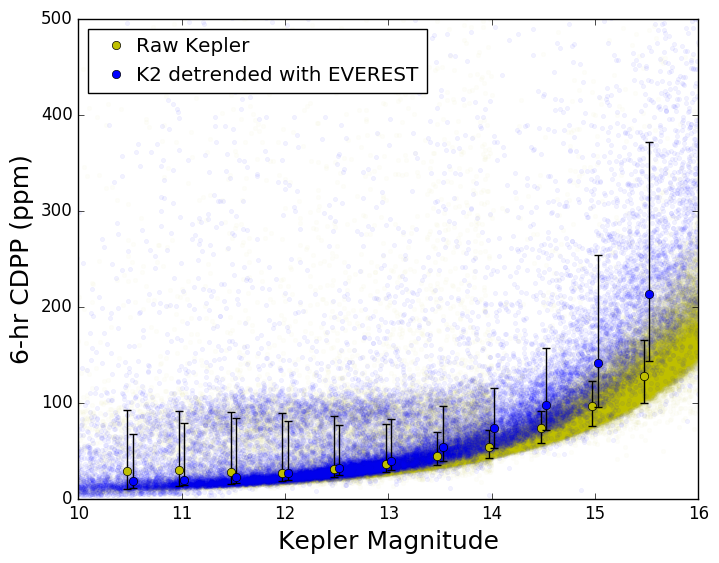
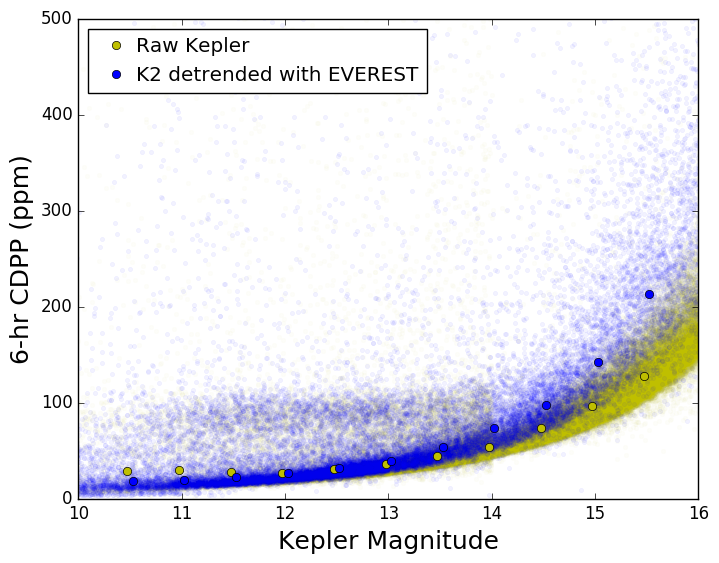
updates

diff --git a/paper/scripts/precision.py b/paper/scripts/precision.py
@@ -130,7 +130,7 @@ if __name__ == '__main__':
   
   # The campaigns we'll use for the synthesis plots
   campaigns = [0,1,2,3,4,5]
-  figures = [1,2,3,4,5,6]
+  figures = [1] #[1,2,3,4,5,6]
 
   # Get the raw **Kepler** rms
   kep_star, kep_kepmag, _, kep_raw = np.loadtxt(os.path.join('CDPP', 'kepler.tsv'), unpack = True)
@@ -211,11 +211,13 @@ if __name__ == '__main__':
         # Everest
         i = np.where((x >= bin - 0.5) & (x < bin + 0.5))[0]
         b_k2[b] = np.nanmedian(y[i])
-        b_k2_sig_l[b] = b_k2[b] - sorted(y[i])[int(len(y[i]) * 0.1585)]
-        b_k2_sig_u[b] = sorted(y[i])[int(len(y[i]) * 0.8415)] - b_k2[b]
-
-      ax.errorbar(bins - 0.025, b_kep, [b_kep_sig_l, b_kep_sig_u], color = 'y', fmt = 'o', lw = 1, ecolor = 'k', capthick = 1, zorder = 99)
-      ax.errorbar(bins + 0.025, b_k2, [b_k2_sig_l, b_k2_sig_u], color = 'b', fmt = 'o', lw = 1, ecolor = 'k', capthick = 1, zorder = 99)
+        b_k2_sig_l[b] = sorted(y[i])[int(len(y[i]) * 0.1585)]
+        b_k2_sig_u[b] = sorted(y[i])[int(len(y[i]) * 0.8415)]
+      
+      # The error bars don't make much physical sense, since the distributions
+      # are far from gaussian. I'm just going to indicate the median on the plot
+      ax.plot(bins - 0.025, b_kep, 'yo', zorder = 99)
+      ax.plot(bins + 0.025, b_k2, 'bo', zorder = 99)
 
   def fig_precision(fig, ax, campaigns, labels = True):
     '''

diff --git a/paper/tex/k2.tex b/paper/tex/k2.tex
@@ -708,7 +708,7 @@ from each magnitude bin in the range $8 \le K_p \le 18$ ($K_p$ is the Kepler ban
 for a total sample size of 2000 stars per run. We then injected synthetic transits of varying depths into the
 light curve by multiplying each pixel by a transit model generated by the 
 \texttt{pysyzygy}\footnote{\texttt{\url{https://github.com/rodluger/pysyzygy}}}
-package, which calculates fast limb-darkened light curves based on the \citep{MA02} transit model. 
+package, which calculates fast limb-darkened light curves based on the \cite{MA02} transit model. 
 We randomly chose orbital periods in the range 3-10 days and fixed
 the transit duration at 2.5 hours, assuming zero eccentricity
 and quadratic limb darkening parameters $a = 0.45$ and $b = 0.30$. We then
@@ -961,7 +961,7 @@ as the CDPP.
                 for all stars observed by \emph{Kepler} 
                 (yellow dots) and for all unsaturated, non-crowded \emph{K2} targets
                 in campaigns 0-5 de-trended with \texttt{EVEREST}
-                (blue dots). The median values and the robust standard deviations are indicated
+                (blue dots). The median values are indicated
                 for 0.5 magnitude-wide bins with filled circles.
                 Our pipeline recovers the original \emph{Kepler} precision for stars
                 brighter than $K_p \approx 13$.}
